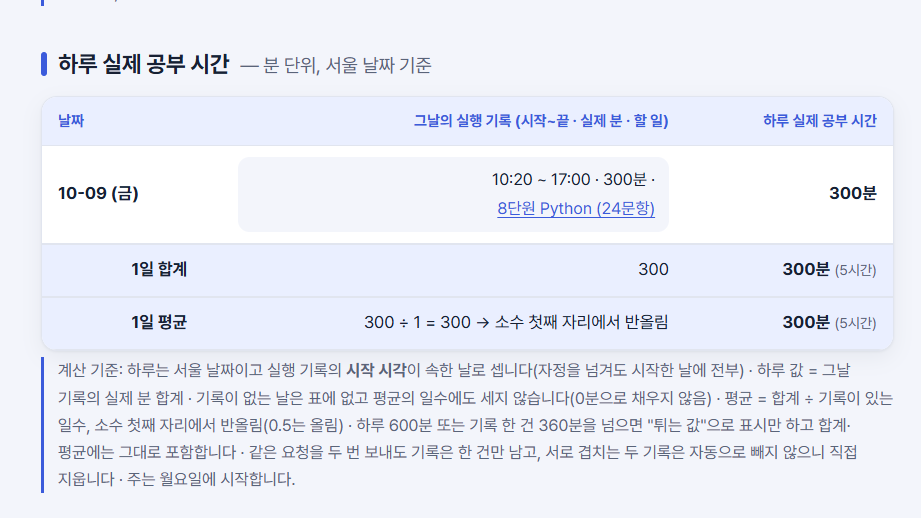
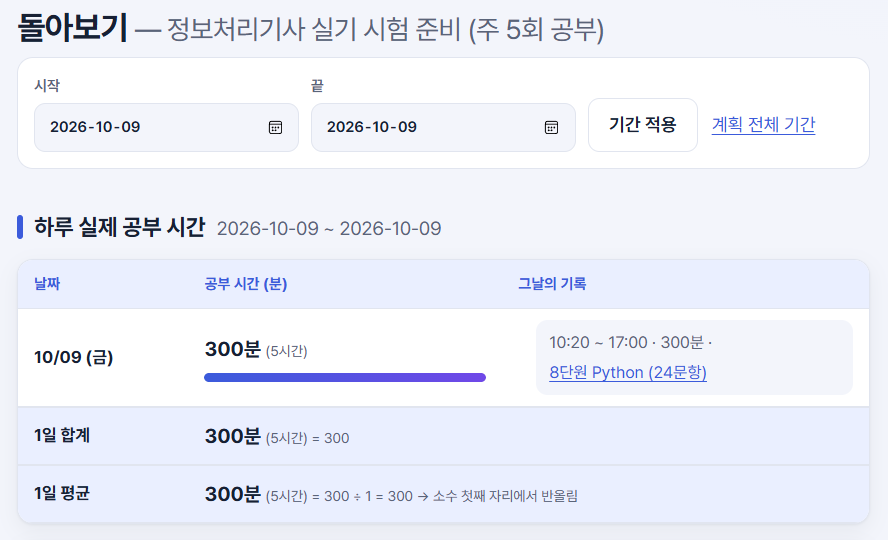
1일차 화면 사진을 정리된 화면으로 교체 (값은 같다: 300분)

diff --git a/README.md b/README.md
@@ -568,7 +568,7 @@ DB 접근에는 `service_role` 키를 쓰기 때문에 DB의 행 보안(RLS)이 
 | 4 | — | — | — | |
 | 5 | — | — | — | |
 
-**1일차 화면** (운영 주소, 돌아보기 화면, 기간 10/9~10/9). 화면의 합계·평균이 기록과 같다: 기록 1건 300분 → 1일 합계 300분, 평균 `300 ÷ 1 = 300`.
+**1일차 화면** (운영 주소, 돌아보기 화면, 기간 10/9~10/9. 화면을 정리한 뒤 다시 캡처, 값은 같다). 화면의 합계·평균이 기록과 같다: 기록 1건 300분 → 1일 합계 300분, 평균 `300 ÷ 1 = 300`.
 
 ![1일차 하루 실제 공부 시간 표](docs/v3/05-1-day1-daily-table.png)
 
